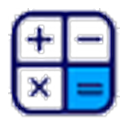
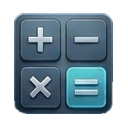
Le quindici icone di Gestione: adesso tutte e quattro le cartelle sono a posto
Erano le peggio messe di tutte: la tavola di partenza (media/iconelega.png) dava
circa 30x33 pixel veri per icona, gonfiati a 107 su una tela da 128. Un
ingrandimento di tre volte e mezzo. La tavola nuova ne porta 106-162, quindi
anche queste vengono ridotte e non allargate.

Ci sono voluti tre giri, e il motivo per cui i primi due non andavano vale la
pena scriverlo. Nelle prime due versioni ogni icona stava dentro una tessera
grigia arrotondata, stampata nei pixel insieme al disegno. Cinque di queste
icone SONO pannelli scuri — la calcolatrice, i cursori, il campo, la nuvoletta,
la coppa — e un pannello scuro su una tessera scura non si separa: sono lo
stesso colore. Nessuna soglia puo' dividere due cose identiche. Con le icone
appoggiate direttamente sul fondo si separano invece benissimo. La tessera era
anche inutile, perche' l'app la disegna gia' lei: 34pt nel pannello laterale e
44pt in azzurro nella pagina Gestione.

scripts/ritaglia-tavola-lega.py fa il taglio. Il fondo non e' piatto, ha una
vignettatura che va da 25 agli angoli a 59 al centro, e il corpo della
calcolatrice sta a 60: una soglia fissa quindi non basta. Il fondo si stima
come superficie, una quadrica ai minimi quadrati raffinata tre volte tenendo
solo i pixel che le restano vicini, e lo scarto residuo e' di 3 livelli su 255.
Poi vale la regola di sempre: e' fondo solo quello attaccato al bordo, cosi'
l'interno scuro della calcolatrice, circondato dal suo bordo chiaro, resta al
[…]

diff --git a/sw.js b/sw.js
@@ -1,5 +1,5 @@
 /* Service worker — shell in cache, aggiornamento in background. */
-const VERSION = 'fcs-v4.2.27';
+const VERSION = 'fcs-v4.2.28';
 const SHELL = [
   './', './index.html', './manifest.webmanifest', './styles/app.css', './styles/logo.css', './styles/font.css', './design/tokens/tokens.css',
   // I caratteri stanno in casa: nella cache ci vanno, se no senza rete si vede

diff --git a/scripts/ritaglia-tavola-lega.py b/scripts/ritaglia-tavola-lega.py
@@ -1,0 +1,106 @@
+#!/usr/bin/env python3
+"""Ritaglia media/nuove-icone-lega.jpg nelle quindici icone della pagina Gestione.
+
+Anche questa e' un JPEG su fondo pieno, ma stavolta le icone sono appoggiate
+direttamente sul fondo: nelle versioni precedenti ognuna stava dentro una
+tessera grigia arrotondata, e la tessera era stampata nei pixel insieme al
+disegno. Cinque di queste icone SONO pannelli scuri — la calcolatrice, i
+cursori, il campo, la nuvoletta, la coppa — e un pannello scuro su una tessera
+scura non si separa: sono lo stesso colore. Senza tessera si separa eccome.
+
+Il fondo non e' piatto: ha una vignettatura, va da 25 agli angoli a 59 al
+centro, e il corpo della calcolatrice sta a 60. Una soglia fissa quindi non
+basta, e si stima il fondo come superficie: una quadrica ai minimi quadrati,
+raffinata tre volte tenendo solo i pixel che le restano vicini. Lo scarto
+residuo e' di 3 livelli su 255.
+
+Poi vale la regola di sempre: e' fondo solo quello ATTACCATO AL BORDO. Cosi'
+l'interno scuro della calcolatrice, che e' circondato dal suo bordo chiaro,
+resta al suo posto invece di sparire.
+
+    python3 scripts/ritaglia-tavola-lega.py [--prova]
+"""
+import sys
+from pathlib import Path
+from PIL import Image, ImageFilter
+import numpy as np
+from scipy import ndimage as ndi
+
+RADICE = Path(__file__).resolve().parent.parent / 'media'
+TAVOLA = RADICE / 'nuove-icone-lega.jpg'
+USCITA = RADICE / 'icone-sorgenti' / 'lega'
+IN_USO = RADICE / 'icone' / 'lega'
+
+GRIGLIA = [
+    ['andamento', 'calcola', 'calendario', 'chat', 'classifica'],
+    ['impostazioni', 'la-mia-squadra', 'live', 'premi', 'probabili-formazioni'],
+    ['rose', 'scambi', 'strumenti', 'supporto', 'trofei'],
+]
+
+def bande(v, soglia=1, minimo=14):
+    out, inizio = [], None
+    for i, x in enumerate(v):
+        if x >= soglia and inizio is None:
+            inizio = i
+        elif x < soglia and inizio is not None:
+            if i - 1 - inizio >= minimo:
+                out.append((inizio, i - 1))
+            inizio = None
+    if inizio is not None and len(v) - 1 - inizio >= minimo:
+        out.append((inizio, len(v) - 1))
+    return out
+
+def superficie(luce, dentro):
+    """La quadrica che meglio segue il fondo, sui soli pixel indicati."""
+    h, w = luce.shape
+    yy, xx = np.mgrid[0:h, 0:w]
+    X, Y = xx / w, yy / h
+    basi = np.stack([np.ones_like(X), X, Y, X * X, X * Y, Y * Y], axis=-1)
+    c, *_ = np.linalg.lstsq(basi[dentro], luce[dentro], rcond=None)
+    return basi @ c
+
+def main():
+    prova = '--prova' in sys.argv
+    im = Image.open(TAVOLA).convert('RGB')
+    luce = np.array(im).astype(float).mean(axis=2)
+
+    vicino = luce < 72
+    for _ in range(3):
+        vicino = luce < superficie(luce, vicino) + 9
+    fondo = superficie(luce, vicino)
+
+    grezzo = luce < fondo + 10
+    etichette, _ = ndi.label(grezzo)
+    ai_bordi = set(etichette[0].tolist()) | set(etichette[-1].tolist()) \
+             | set(etichette[:, 0].tolist()) | set(etichette[:, -1].tolist())
+    ai_bordi.discard(0)
+    # erosione di 1: il bordo sfumato dal JPEG e' meta' disegno e meta' fondo
+    pieno = ndi.binary_erosion(~np.isin(etichette, list(ai_bordi)), np.ones((3, 3)))
+
+    # le bande alte sono le icone; titolo ed etichette sono righe basse
+    righe = [b for b in bande(pieno.sum(axis=1), 25, 10) if b[1] - b[0] > 60]
+    if len(righe) != len(GRIGLIA):
+        print(f'attese {len(GRIGLIA)} righe di icone, trovate {len(righe)}: {righe}', file=sys.stderr)
+        return 1
+    USCITA.mkdir(parents=True, exist_ok=True)
+    for (r0, r1), nomi in zip(righe, GRIGLIA):
+        colonne = bande(pieno[r0:r1 + 1].sum(axis=0))
+        if len(colonne) != len(nomi):
+            print(f'riga {r0}-{r1}: attese {len(nomi)} icone, trovate {len(colonne)}', file=sys.stderr)
+            return 1
+        for (c0, c1), nome in zip(colonne, nomi):
+            m = pieno[r0:r1 + 1, c0:c1 + 1]
+            ys, xs = np.where(m)
+            fuori = im.crop((c0 + xs.min(), r0 + ys.min(), c0 + xs.max() + 1, r0 + ys.max() + 1)).convert('RGBA')
+            alfa = Image.fromarray((m[ys.min():ys.max() + 1, xs.min():xs.max() + 1] * 255)
+                                   .astype(np.uint8), 'L').filter(ImageFilter.GaussianBlur(0.7))
+            fuori.putalpha(alfa)
+            print(f'  {nome:22} {fuori.size[0]:3}x{fuori.size[1]}')
+            if not prova:
+                fuori.save(USCITA / f'{nome}.png')
+                fuori.save(IN_USO / f'{nome}.png')
+    print('\nprova: niente e\' stato scritto.' if prova else '\nscritte.')
+    return 0
+
+if __name__ == '__main__':
+    sys.exit(main())

diff --git a/scripts/normalizza-icone.py b/scripts/normalizza-icone.py
@@ -45,6 +45,7 @@ GRUPPI = {
     # lato. A grandezza ottica 100 vorrebbe essere largo 132 e sulla tela non ci
     # sta: con 122 si ferma a 98, cioe' il 2% sotto. E' il solo che non arriva.
     'eventi': {'ottica': 100.0, 'max_lato': 122, 'icone': None},
+    'lega': {'ottica': 100.0, 'max_lato': 122, 'icone': None},
 }
 
 def riquadro(alpha, soglia=40, minimo=8):
